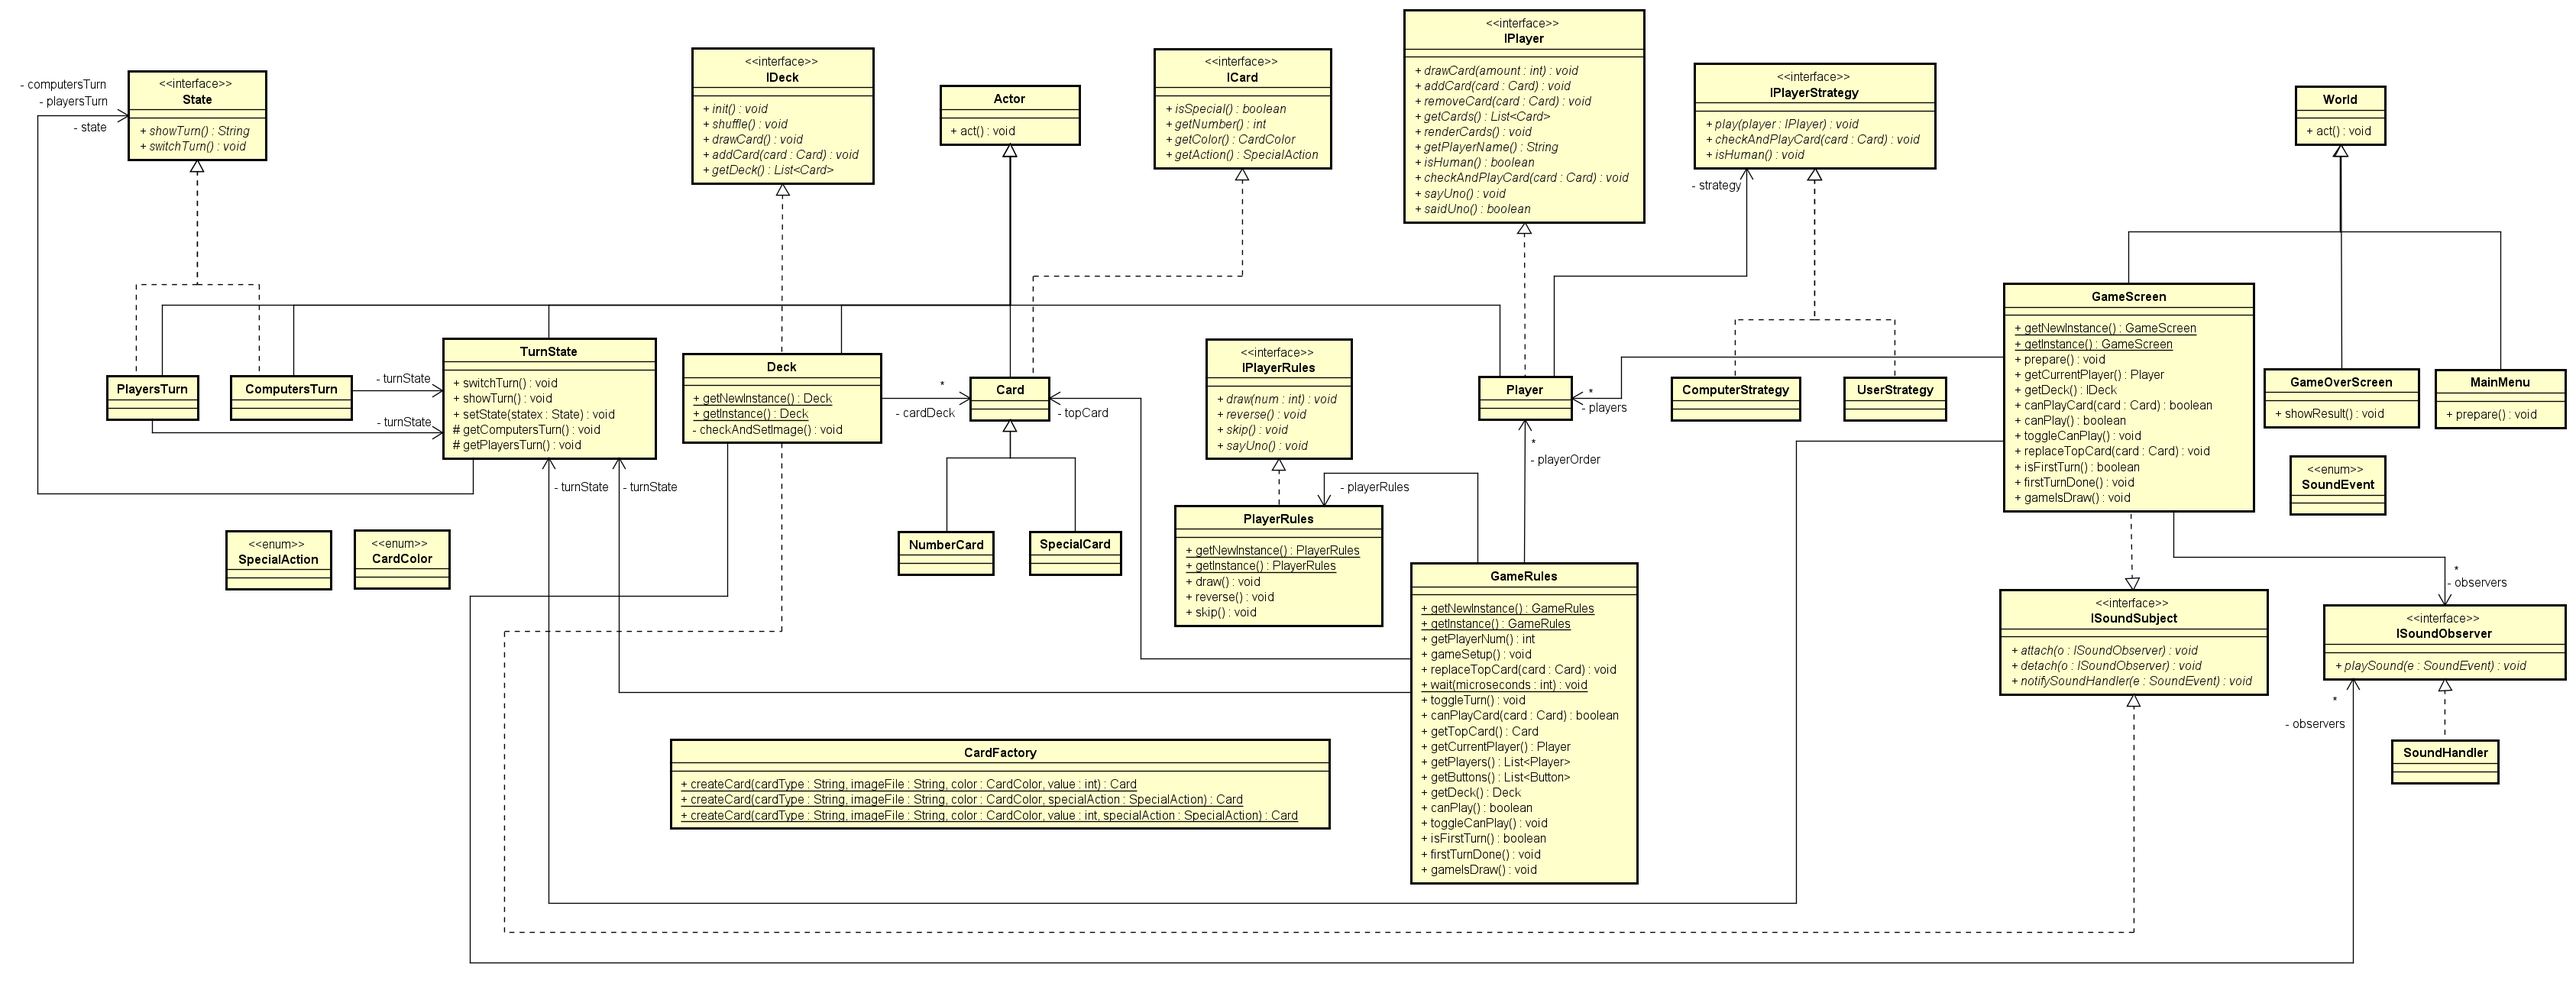
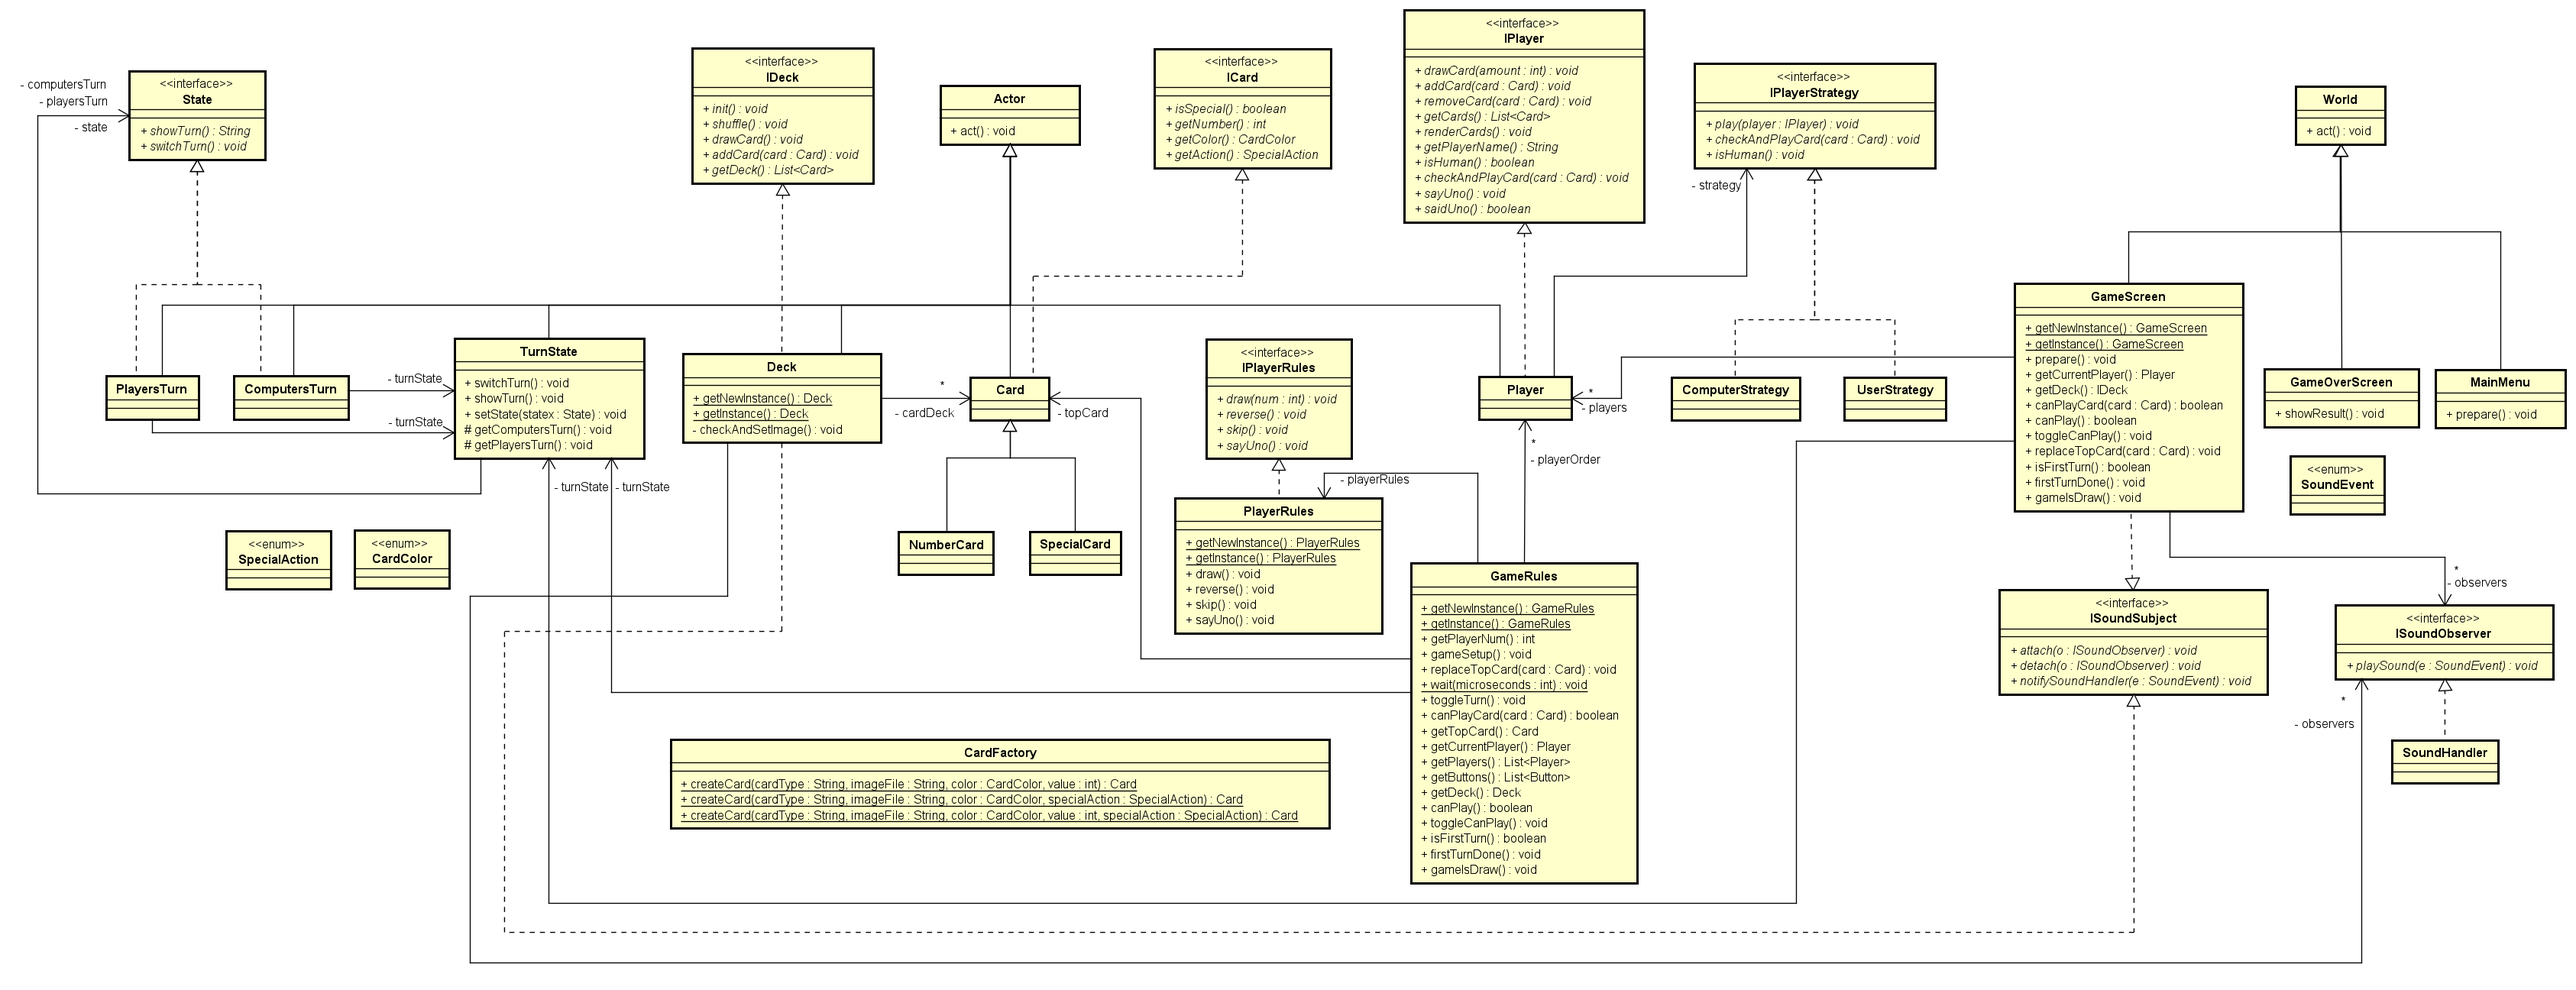
adds class diagram for singleton pattern for player rules

diff --git a/README.md b/README.md
@@ -120,12 +120,17 @@ We present the Deck Singleton UML Diagram:
 We chose to use a Singleton pattern for Game Rules to ensure one source of Game Rules for all players. This allows IPlayer.java objects to manipulate the games using a single source.
 
 
-4. PlayerRules Singleton Pattern - Devansh
-We chose to use a Singleton pattern for Player Rules to differentiate game level rules vs player level rules and to ensure one source of Player Rules like draw, reverse, skip for all players. This allows IPlayer.java objects to manipulate the games using a single source.
+### Singleton - PlayerRules
 
+<br>
 <p align="center">
-    <image src="images/playerrules.png">
+    <image src="images/singleton_pattern_player_rules.png">
 </p>
+<br>
+
+- We chose to use a Singleton pattern for Player Rules to differentiate game level rules vs player level rules
+- This also ensures one source of Player Rules like draw, reverse, skip for all players. 
+- This allows IPlayer.java objects to manipulate the games using a single source.
 
 ### Observer Pattern
 
